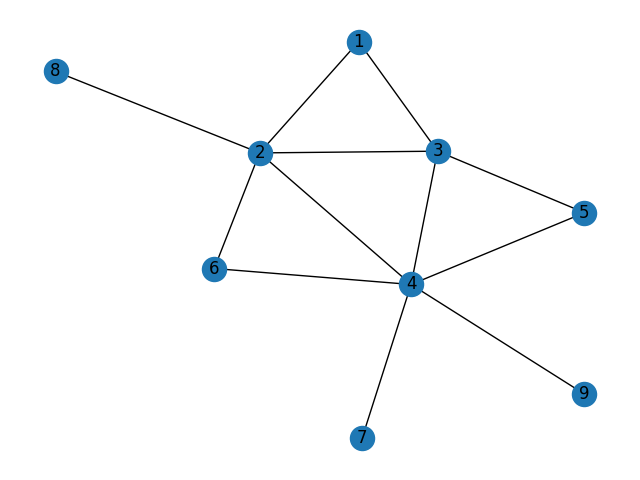
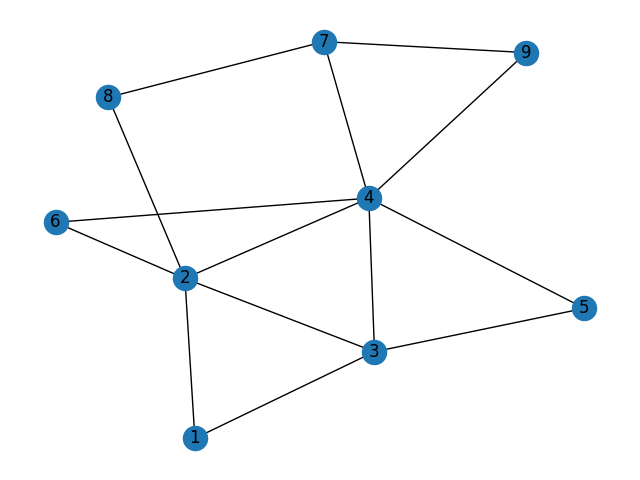
programma meetings

diff --git a/meetings.py b/meetings.py
@@ -1,0 +1,37 @@
+import dwavebinarycsp
+from dwave.system.samplers import DWaveSampler
+from dwave.system.composites import EmbeddingComposite
+
+sampler = EmbeddingComposite(DWaveSampler())
+
+def scheduling(time, location, length, mandatory):
+    if time:
+        # Horas de oficina
+        return (location and mandatory)
+    else:
+        # En casa
+        return ((not location) and mandatory)
+
+csp = dwavebinarycsp.ConstraintSatisfactionProblem(dwavebinarycsp.BINARY)
+csp.add_constraint(scheduling, ['time', 'location', 'length', 'mandatory'])
+
+bqm = dwavebinarycsp.stitch(csp)
+print(bqm.linear)
+print(bqm.quadratic)
+
+response = sampler.sample(bqm, num_reads = 5000)
+min_energy = next(response.data(['energy'])) [0]
+
+print(response)
+
+total = 0
+
+for sample, energy, occurrences in response.data({'sample', 'energy', 'num_occurrences'}):
+    total = total + 1
+    if energy == min_energy:
+        time = 'business hours' if sample['time'] else 'evenings' 
+        location = 'office' if sample['location'] else 'home' 
+        length = 'short' if sample['length'] else 'long'
+        mandatory = 'mandatory' if sample['mandatory'] else 'optimal'
+        print("{}: during {} at {}, you can schedule a {} meeting that is {}" .format(occurrences, time , location, length, mandatory))
+    

diff --git a/Grafo8.py b/Grafo8.py
@@ -22,6 +22,8 @@ G.add_edge("4","6")
 G.add_edge("4","7")
 G.add_edge("2","8")
 G.add_edge("4","9")
+G.add_edge("7","8")
+G.add_edge("7","9")
 
 # Dibujar y almacenar el grafo
 nx.draw(G, with_labels = True)
